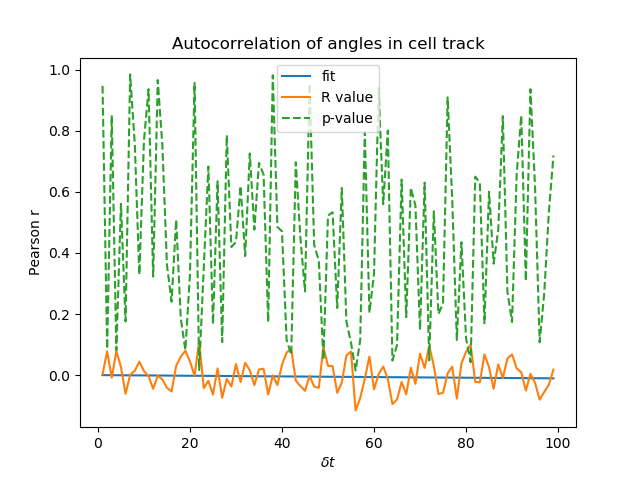
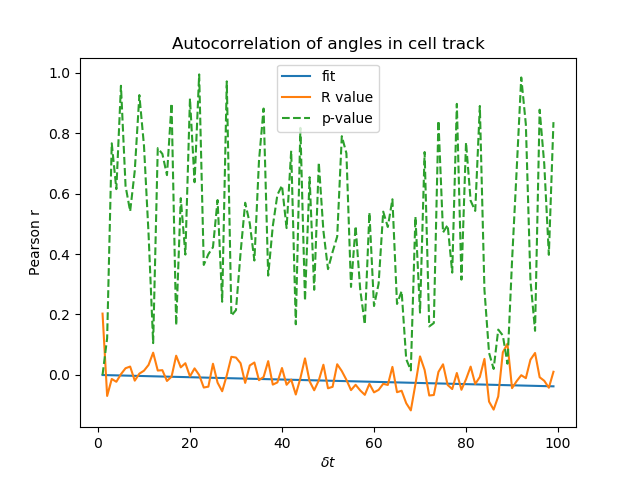
stuff

diff --git a/CPM_code/analyse_tracks.py b/CPM_code/analyse_tracks.py
@@ -25,6 +25,45 @@ def get_motility(track,plot = False):
     return popt[0],popt[1],slope,p
 
 def roseplot(track):
+    # get list of angles : 
+    _,angles = analyse_track(track)
+
+    n_numbers = 100
+    bins_number = 16  # the [0, 360) interval will be subdivided into this
+    # number of equal bins
+    bins = np.linspace(0.0, 2 * np.pi, bins_number + 1)
+    #angles = 2 * np.pi * np.random.rand(n_numbers)
+    n, _, _ = plt.hist(angles, bins)
+
+    #plt.clf()
+    width = 2 * np.pi / bins_number
+    ax = plt.subplot(1, 1, 1, projection='polar')
+    bars = ax.bar(bins[:bins_number], n, width=width, bottom=0.0)
+    for bar in bars:
+        bar.set_alpha(0.5)
+    plt.show()
+
+def new_auto(cell_track): 
+    averages = []
+    for dt in range(0,300):
+        # angles per dt: 
+        cosines = []
+        for i in range(len(cell_track) - 2 - dt):
+            point1 = cell_track[i]
+            point2 = cell_track[i + 1]
+            point3 = cell_track[i + dt]
+            point4 = cell_track[i + dt + 1]
+            if list(point2) == list(point4):
+                pass
+            v1 = point2 - point1
+            v2 = point4 - point3
+            #cos = np.clip(np.dot(v1,v2)/(norm(v1) * norm(v2)),-1,1)
+            cos = np.dot(v1,v2)/(norm(v1) * norm(v2))
+            cosines.append(cos)
+        if len(cosines) > 100: #minimum 100 mcs with actual displacement
+            averages.append(np.average(cosines))
+    return averages
+
 
 def build_df(files):
     data_dict = {'Motility':[],'Persistance':[],'AutoSlope':[],'P-val':[]
@@ -38,17 +77,22 @@ def build_df(files):
         data_dict['AutoSlope'].append(slope)
         data_dict['P-val'].append(p_val)
         l,Max = f.split('MAX')
-        data_dict['Lambda'].append(int(re.findall(numbers,l)[0]))
+        data_dict['Lambda'].append(int(re.findall(numbers,l)[1]))
         data_dict['Max_act'].append(int(re.findall(numbers,Max)[0][:-1]))
     
     df = pd.DataFrame(data_dict)
-    df.to_csv('../results/CPM_nofrc1.csv')
+    df.to_csv('../results/CPM_nofrc2.csv')
 
 if __name__ == "__main__":
-    files = glob.glob('../results/first_cpm/*.txt')
+    files = glob.glob('../results/nofrc2/*.txt')
     files.sort()
-    #build_df(files)
+    # build_df(files)
     # test
-    f = files[40]
+    f = files[18]
     track = np.loadtxt(f)
-    print(get_motility(track,plot = True))
+    roseplot(track)
+    auto_cor = new_auto(track)
+    plt.clf()
+    plt.plot(auto_cor)
+    plt.show()
+    #print(get_motility(track,plot = True))

diff --git a/CPM_code/CPM_helpers1.py b/CPM_code/CPM_helpers1.py
@@ -195,11 +195,12 @@ def analyse_track(cell_track):
             point3 = cell_track[i + 2]
             v1 = point2 - point1
             v2 = point3 - point2
-            cos = np.clip(np.dot(v1,v2)/(norm(v1) * norm(v2)),-1,1)
-            #angles.append(np.arccos(np.clip(cos,-1,1)))
+            #cos = np.clip(np.dot(v1,v2)/(norm(v1) * norm(v2)),-1,1)
+            cos = np.dot(v1,v2)/(norm(v1) * norm(v2))
+            angles.append(np.arccos(np.clip(cos,-1,1)))
             #print(cos)
             #if np.isfinite(cos):
-            angles.append(cos)
+            #angles.append(cos)
 
     # # autocorrelation : 
     # corr = np.correlate(cell_track, cell_track, mode='full')
